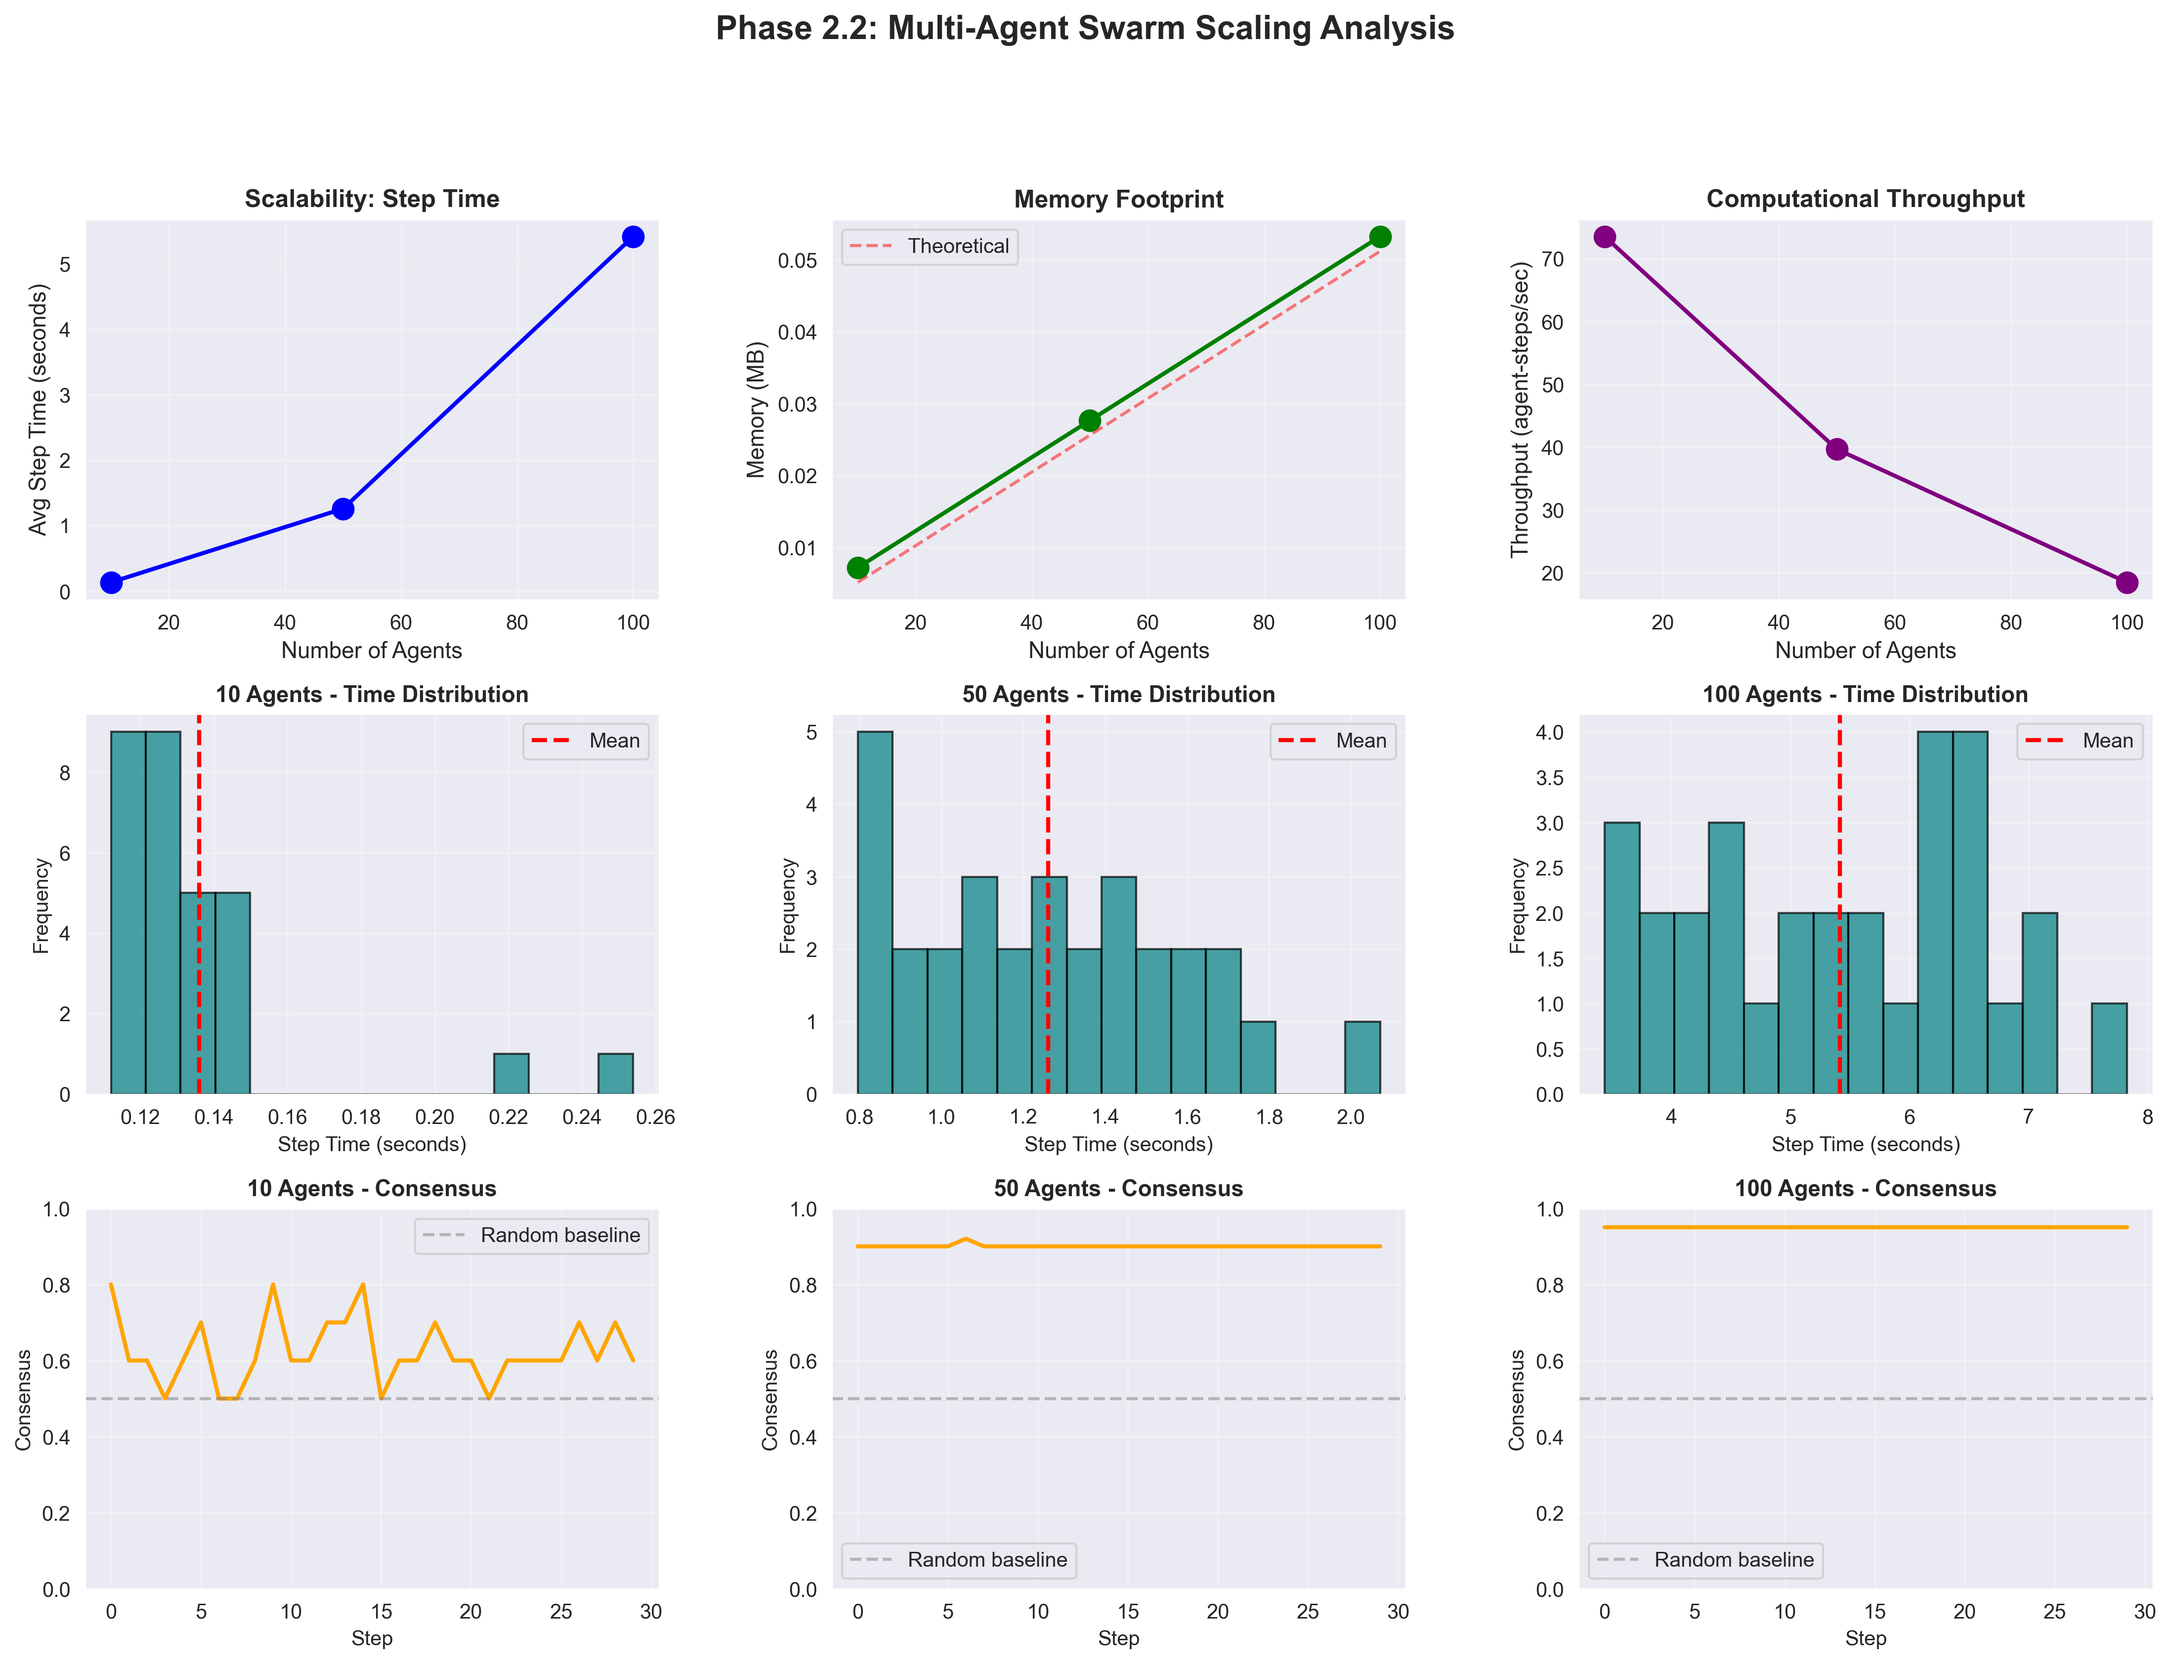
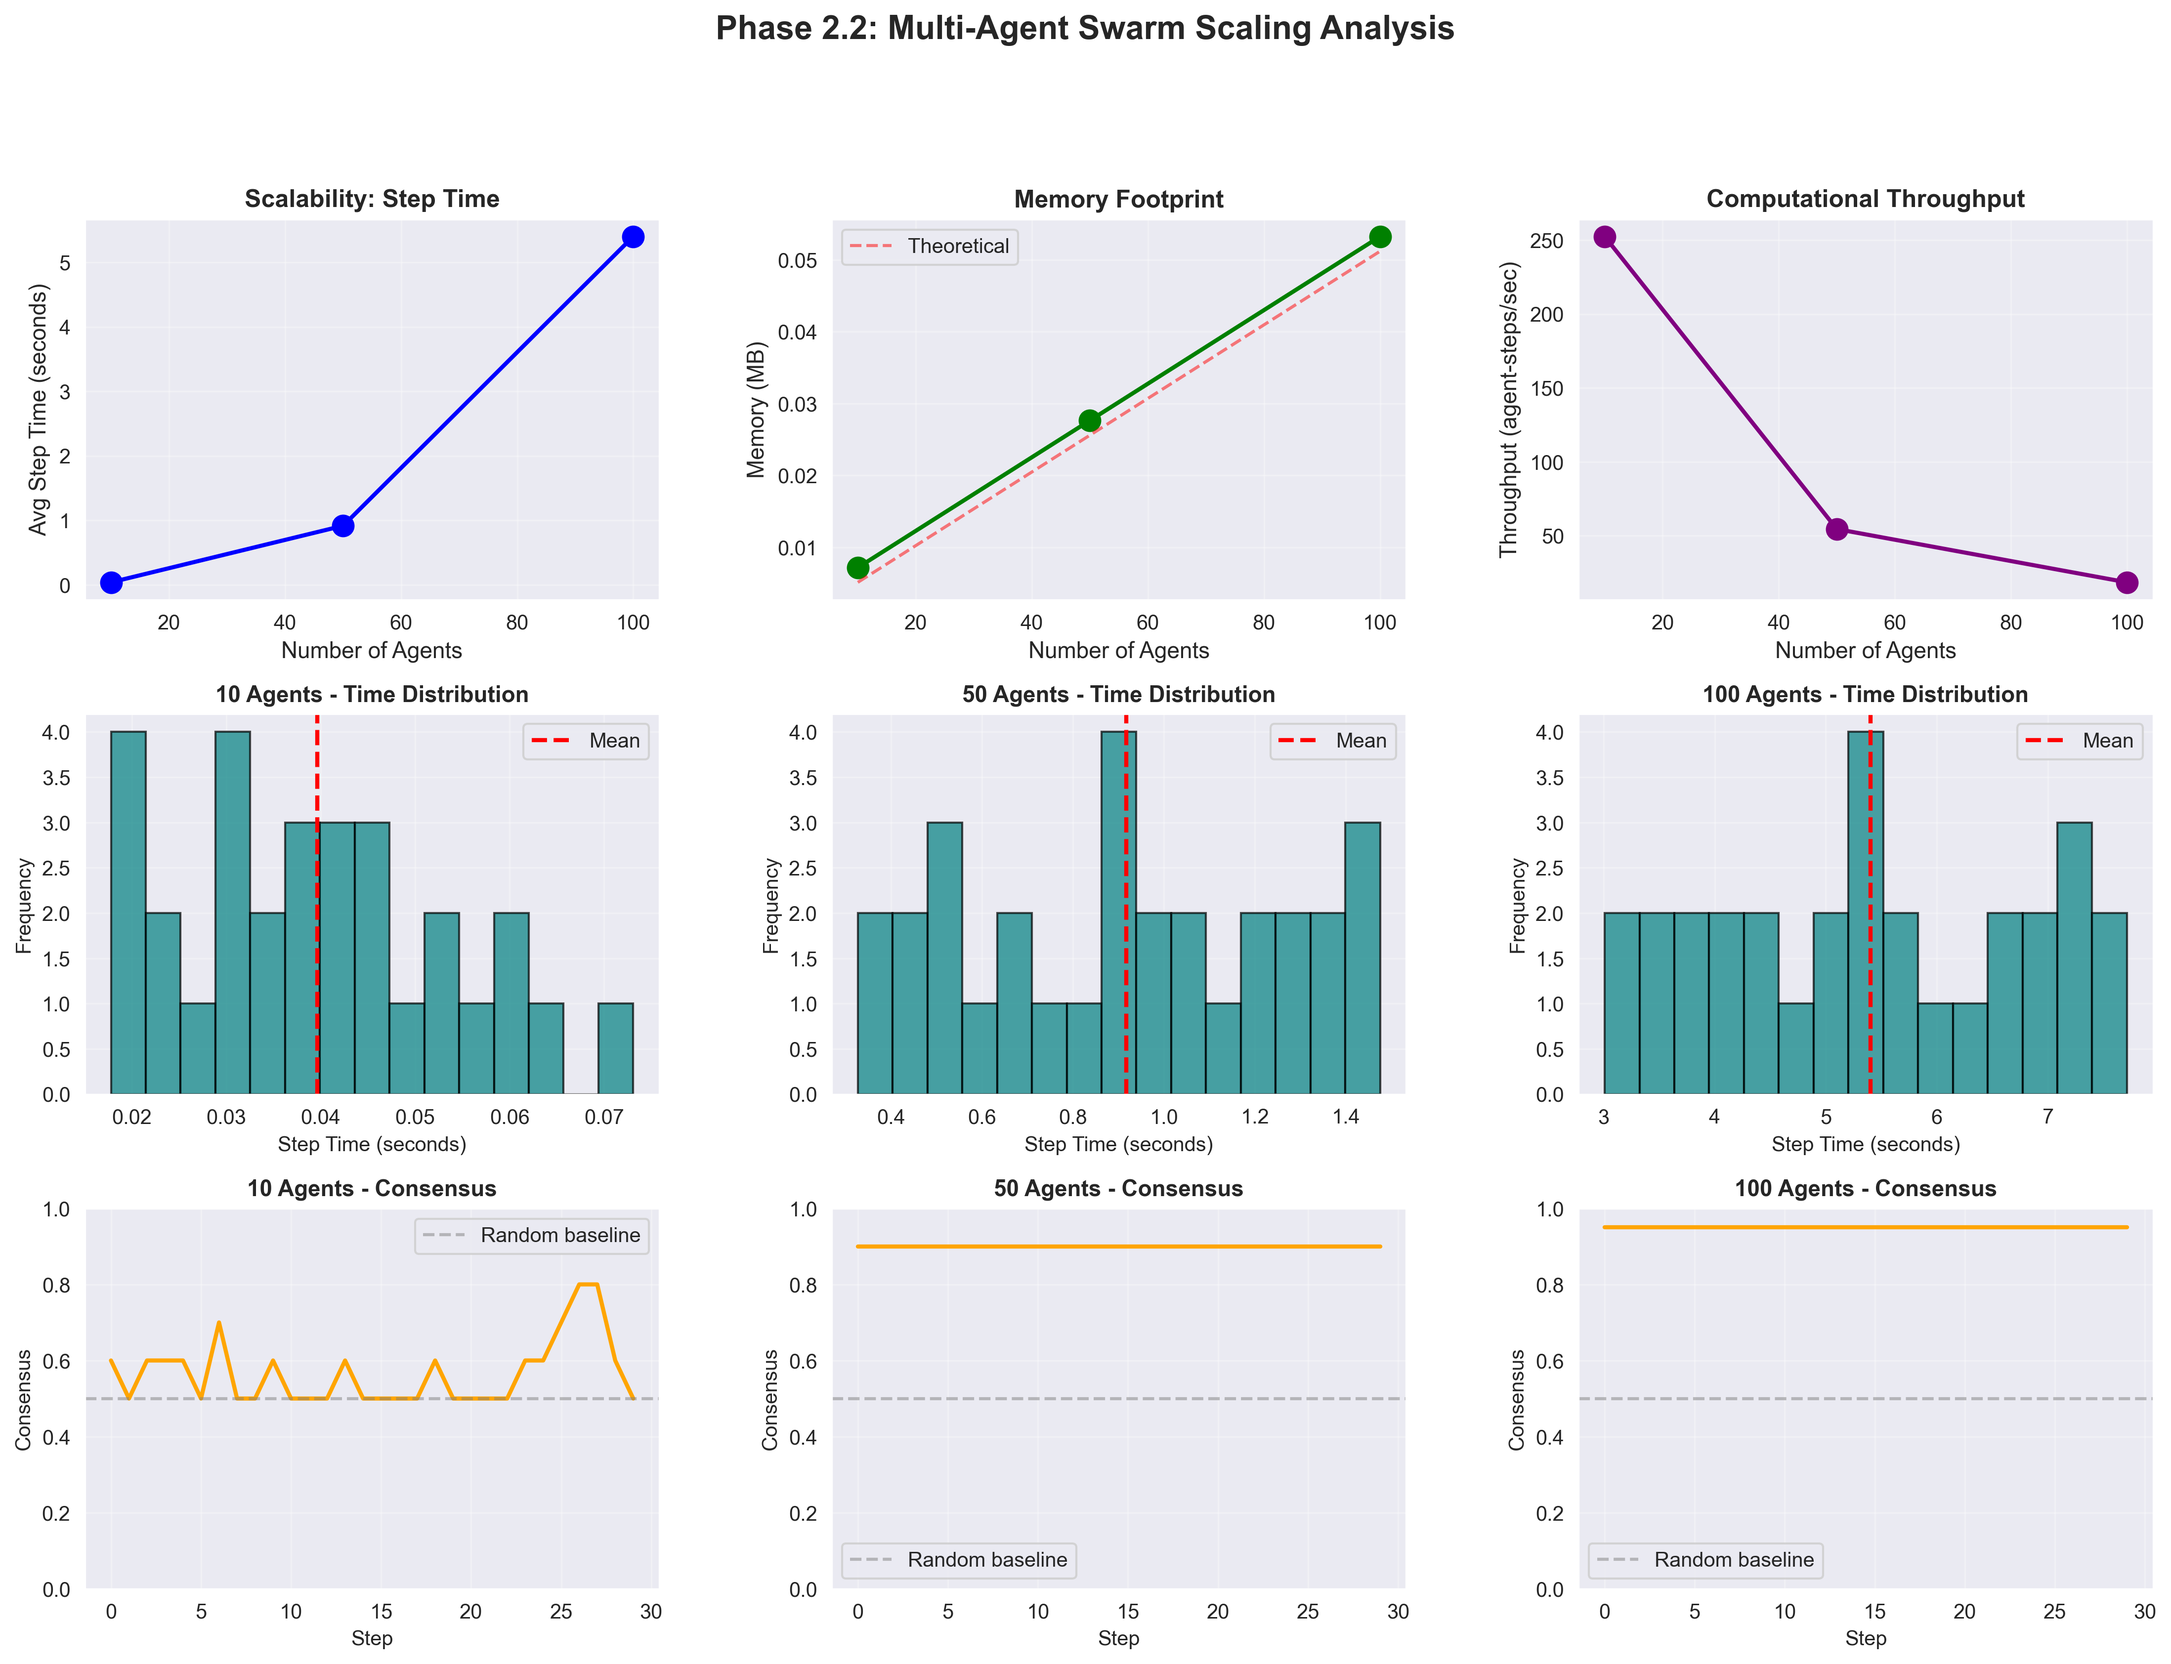
feat: Add large scale data benchmarking for agent performance evaluation

diff --git a/benchmark_large_memory.py b/benchmark_large_memory.py
@@ -1,0 +1,105 @@
+"""
+Phase 2.3: Large Scale Data Benchmark
+
+Benchmarks:
+1. Loading large synthetic dataset (500MB+) into Unified Memory
+2. Running 50 agents (optimal count) against real data patterns
+3. Measuring memory bandwidth impact on step time
+
+Target: Validate that the system can handle "Big Data" in Unified Memory
+"""
+
+import mlx.core as mx
+import time
+import json
+import numpy as np
+import matplotlib.pyplot as plt
+import seaborn as sns
+from swarm_architecture import ConsciousSwarm
+
+# Visualization setup
+sns.set_style('darkgrid')
+
+def load_synthetic_data(filename="synthetic_experiences.json"):
+    print(f"📂 Loading synthetic data from {filename}...")
+    start = time.time()
+    with open(filename, 'r') as f:
+        data = json.load(f)
+    load_time = time.time() - start
+    print(f"✅ Loaded {len(data)} experiences in {load_time:.4f}s")
+    return data
+
+def benchmark_large_scale(num_agents=50, num_steps=50, data_file="synthetic_experiences.json"):
+    print(f"\n{'='*70}")
+    print(f"🐘 BENCHMARKING LARGE SCALE DATA ({num_agents} AGENTS)")
+    print(f"{'='*70}")
+    
+    # 1. Load Data
+    experiences = load_synthetic_data(data_file)
+    
+    # 2. Initialize Swarm with Large Memory
+    print(f"\n🌐 Initializing Swarm with memory file: {data_file}")
+    init_start = time.time()
+    swarm = ConsciousSwarm(
+        num_agents=num_agents,
+        agent_state_dim=128,
+        collective_dim=512,
+        action_dim=5,
+        memory_file=data_file  # Point to the large dataset
+    )
+    init_time = time.time() - init_start
+    
+    print(f"📊 Initialization:")
+    print(f"   Time: {init_time:.4f}s")
+    print(f"   Memory footprint: {swarm._estimate_memory_mb():.4f} MB (Active)")
+    print(f"   Shared Memory: {len(swarm.shared_memory.memory.memories)} items")
+    
+    # 3. Run Simulation using Data as Input
+    print(f"\n🚀 Running {num_steps}-step simulation with data-driven inputs...")
+    
+    step_times = []
+    consensus_scores = []
+    
+    for step in range(num_steps):
+        # Use data from the dataset as environment signals
+        # We pick 'num_agents' random samples from the dataset to simulate "seeing" the world
+        batch_indices = np.random.choice(len(experiences), num_agents)
+        
+        environment_signals = []
+        for idx in batch_indices:
+            # Convert list to mx.array
+            signal = mx.array(experiences[idx]['state'])
+            environment_signals.append(signal)
+            
+        # Time one step
+        step_start = time.time()
+        result = swarm.step(environment_signals)
+        step_time = time.time() - step_start
+        
+        step_times.append(step_time)
+        consensus_scores.append(result['consensus'])
+        
+        if (step + 1) % 10 == 0:
+            avg_time = np.mean(step_times[-10:])
+            print(f"   Step {step+1:3d} | "
+                  f"Time: {step_time:.4f}s | "
+                  f"Avg: {avg_time:.4f}s | "
+                  f"Consensus: {result['consensus']:.3f}")
+
+    # 4. Final Metrics
+    print(f"\n✅ Large Scale Benchmark Complete!")
+    print(f"   Avg step time: {np.mean(step_times):.4f}s")
+    print(f"   Throughput: {num_agents * num_steps / sum(step_times):.1f} agent-steps/sec")
+    print(f"   Final consensus: {consensus_scores[-1]:.3f}")
+    
+    return step_times, consensus_scores
+
+if __name__ == "__main__":
+    # Ensure data exists
+    import os
+    if not os.path.exists("synthetic_experiences.json"):
+        print("⚠  synthetic_experiences.json not found. Generating it now...")
+        import generate_training_data
+        generate_training_data.generate_synthetic_data(num_experiences=10000, output_file="synthetic_experiences.json")
+        
+    benchmark_large_scale()

diff --git a/swarm_architecture.py b/swarm_architecture.py
@@ -247,7 +247,8 @@ class ConsciousSwarm:
     - Total active memory: ~53 KB (fits in L2 cache!)
     """
     def __init__(self, num_agents: int = 100, agent_state_dim: int = 128, 
-                 collective_dim: int = 512, action_dim: int = 10):
+                 collective_dim: int = 512, action_dim: int = 10,
+                 memory_file: str = "swarm_collective_memory.json"):
         self.num_agents = num_agents
         self.agent_state_dim = agent_state_dim
         self.collective_dim = collective_dim
@@ -262,7 +263,7 @@ class ConsciousSwarm:
         
         # Shared infrastructure
         self.collective_workspace = CollectiveWorkspace(collective_dim, num_agents)
-        self.shared_memory = SharedMemoryPool(state_dim=agent_state_dim)
+        self.shared_memory = SharedMemoryPool(memory_file=memory_file, state_dim=agent_state_dim)
         self.communication = AgentCommunication(num_agents)
         
         # Swarm-level metrics

diff --git a/cognitive_architecture.py b/cognitive_architecture.py
@@ -41,12 +41,14 @@ class EpisodicMemory:
         # Now append consistently
         self.memories.append(episode)
         
-        # Update GPU memory matrix - always rebuild to avoid concatenation bugs
-        states = [mx.array(m["state"]) for m in self.memories]
-        self.memory_matrix = mx.stack(states) if states else None
+        # Update GPU memory matrix efficiently
+        if self.memory_matrix is None:
+            self.memory_matrix = state[None, :]
+        else:
+            self.memory_matrix = mx.concatenate([self.memory_matrix, state[None, :]], axis=0)
 
-        # Auto-save every 10 memories for persistence during debug
-        if len(self.memories) % 10 == 0:
+        # Auto-save every 1000 memories to avoid disk thrashing
+        if len(self.memories) % 1000 == 0:
             self.save_memories()
 
     def retrieve(self, query_state: mx.array, k: int = 3):
